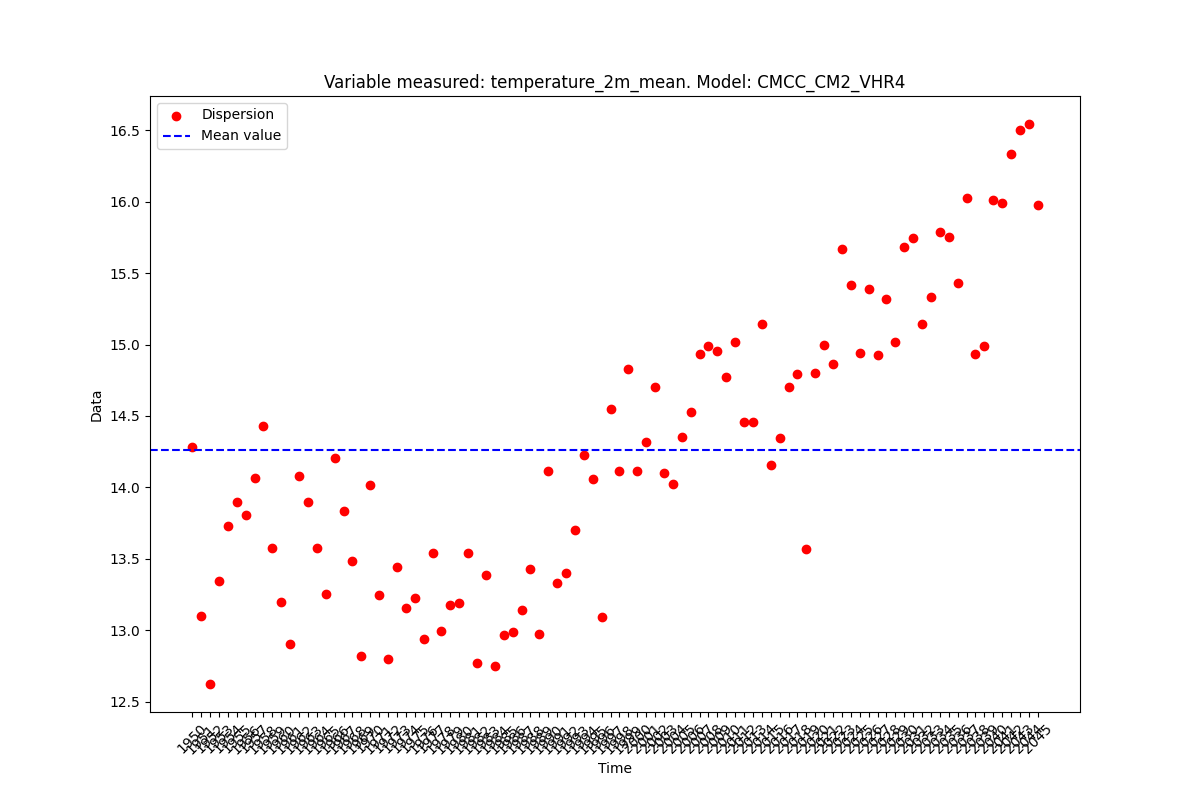
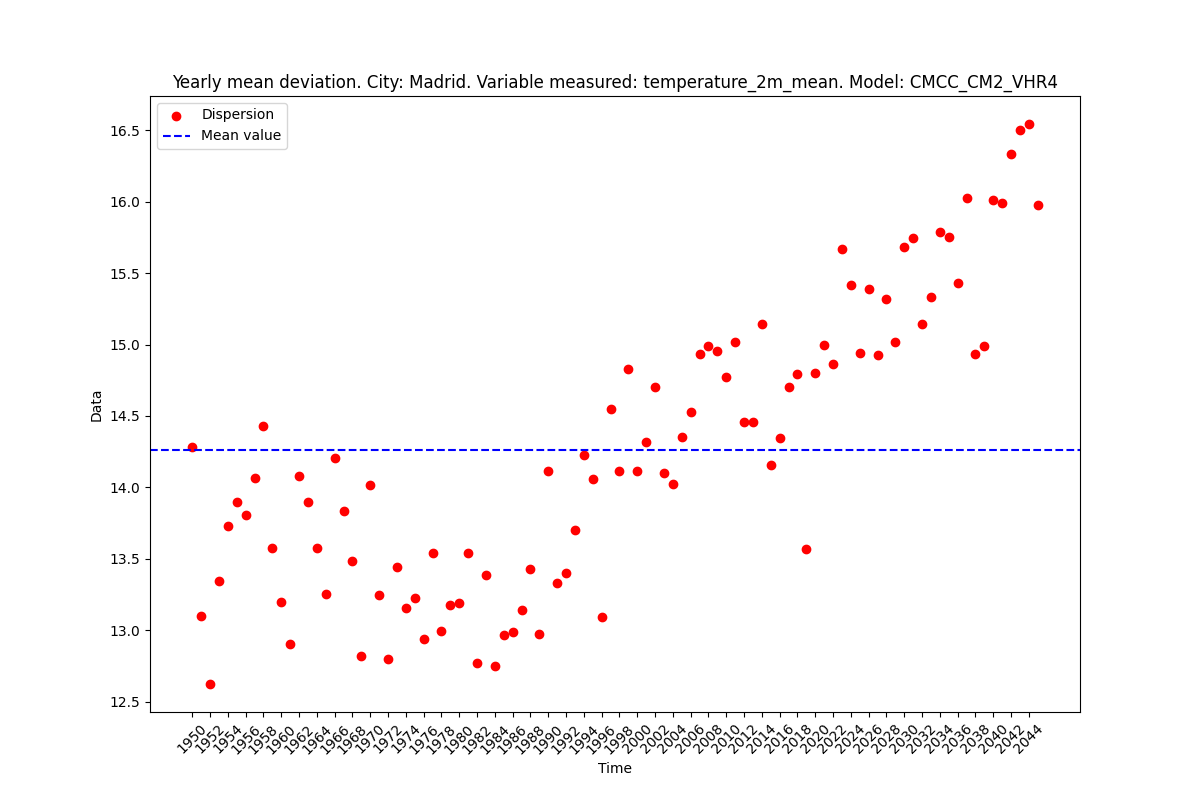
Plot files not added to github

Changed region(s): [[0.1542, 0.9062, 0.8942, 0.9375], [0.1542, 0.0938, 0.8942, 0.125]]

diff --git a/src/module_1/module_1_meteo_api.py b/src/module_1/module_1_meteo_api.py
@@ -48,16 +48,25 @@ def plot_mean_and_std(mean_data, anual_mean_values, time, city, variable, model,
     y_values = anual_mean_values.values()
     x_values = anual_mean_values.keys()
 
+
+    init_year = int(list(x_values)[0].split("-")[0])
+    end_year = int(list(x_values)[-1].split("-")[0])
+
+    custom_x_labels = [str(year) for year in range(init_year, end_year, 2)]
+
     plt.figure(figsize=(12, 8))
     plt.scatter(x_values, y_values, label="Dispersion", color="r")
     plt.axhline(y=mean_data, color="b", linestyle="--", label="Mean value")
     plt.xlabel("Time")
     plt.ylabel("Data")
+    plt.xticks(fontsize=10)
     plt.xticks(rotation=45)
-    plt.title(f"Variable measured: {variable}. Model: {model}")
+    plt.xticks(custom_x_labels, custom_x_labels)
+    plt.title(f"Yearly mean deviation. City: {city}. Variable measured: {variable}. Model: {model}")
     pic_filename = f"{plot_folder}/{city}_{variable}_{model}.png"
     plt.legend()
     plt.savefig(pic_filename)
+    plt.close()
 
 
 def main():
@@ -78,37 +87,52 @@ def main():
         list_variables = VARIABLES.split(",")
         list_models = MODELS.split(",")
 
-        for variable, model in zip(list_variables, list_models):
+        for variable in list_variables:
+            for model in list_models:
 
-            data_key = f"{variable}_{model}"
+                #model = "CMCC_CM2_VHR4"
+                #variable = "soil_moisture_0_to_10cm_mean"
 
-            api_url = get_data_meteo_api(city, start_date, end_date)
+                print(model, variable)
 
-            response = api_request(api_url)
+                data_key = f"{variable}_{model}"
 
-            if response.status_code == 200:
-                data_dict = response.json()
-                data = data_dict["daily"][data_key]
-                time = data_dict["daily"]["time"]
-                mean_data = np.mean(data)
+                api_url = get_data_meteo_api(city, start_date, end_date)
 
-                sum_year_values = {}
-                count_year_values = {}
+                response = api_request(api_url)
 
-                for value,date in zip(data, time):
-                    year = date.split("-")[0] # Output: [2020, 01, 01]
+                if response.status_code == 200:
 
-                    if year in sum_year_values.keys():
-                        sum_year_values[year] += value
-                        count_year_values[year] +=1
+                    data_dict = response.json()
+                    data = data_dict["daily"][data_key]
+                    time = data_dict["daily"]["time"]
+                    try:
+                        mean_data = np.mean(data)
+                    except TypeError:
+                        print(f"{variable} for {model} does not exist. Skip")
+                        break
 
-                    else:
-                        sum_year_values[year] = value
-                        count_year_values[year] = 1
 
-                anual_mean_values = {year: (sum/count) for year, sum, count in zip(sum_year_values.keys(), sum_year_values.values(), count_year_values.values())} # yearly dispersion from mean
+                    sum_year_values = {}
+                    count_year_values = {}
 
-                plot_mean_and_std(mean_data, anual_mean_values, time, city, variable, model, plot_folder)
+                    for value,date in zip(data, time):
+                        year = date.split("-")[0] # Output: [2020, 01, 01]
+
+                        if year in sum_year_values.keys():
+                            sum_year_values[year] += value
+                            count_year_values[year] +=1
+
+                        else:
+                            sum_year_values[year] = value
+                            count_year_values[year] = 1
+
+                    anual_mean_values = {year: (sum/count) for year, sum, count in zip(sum_year_values.keys(), sum_year_values.values(), count_year_values.values())} # yearly dispersion from mean
+
+                    plot_mean_and_std(mean_data, anual_mean_values, time, city, variable, model, plot_folder)
+
+                else:
+                    print(response.status_code)
 
 
 if __name__ == "__main__":
